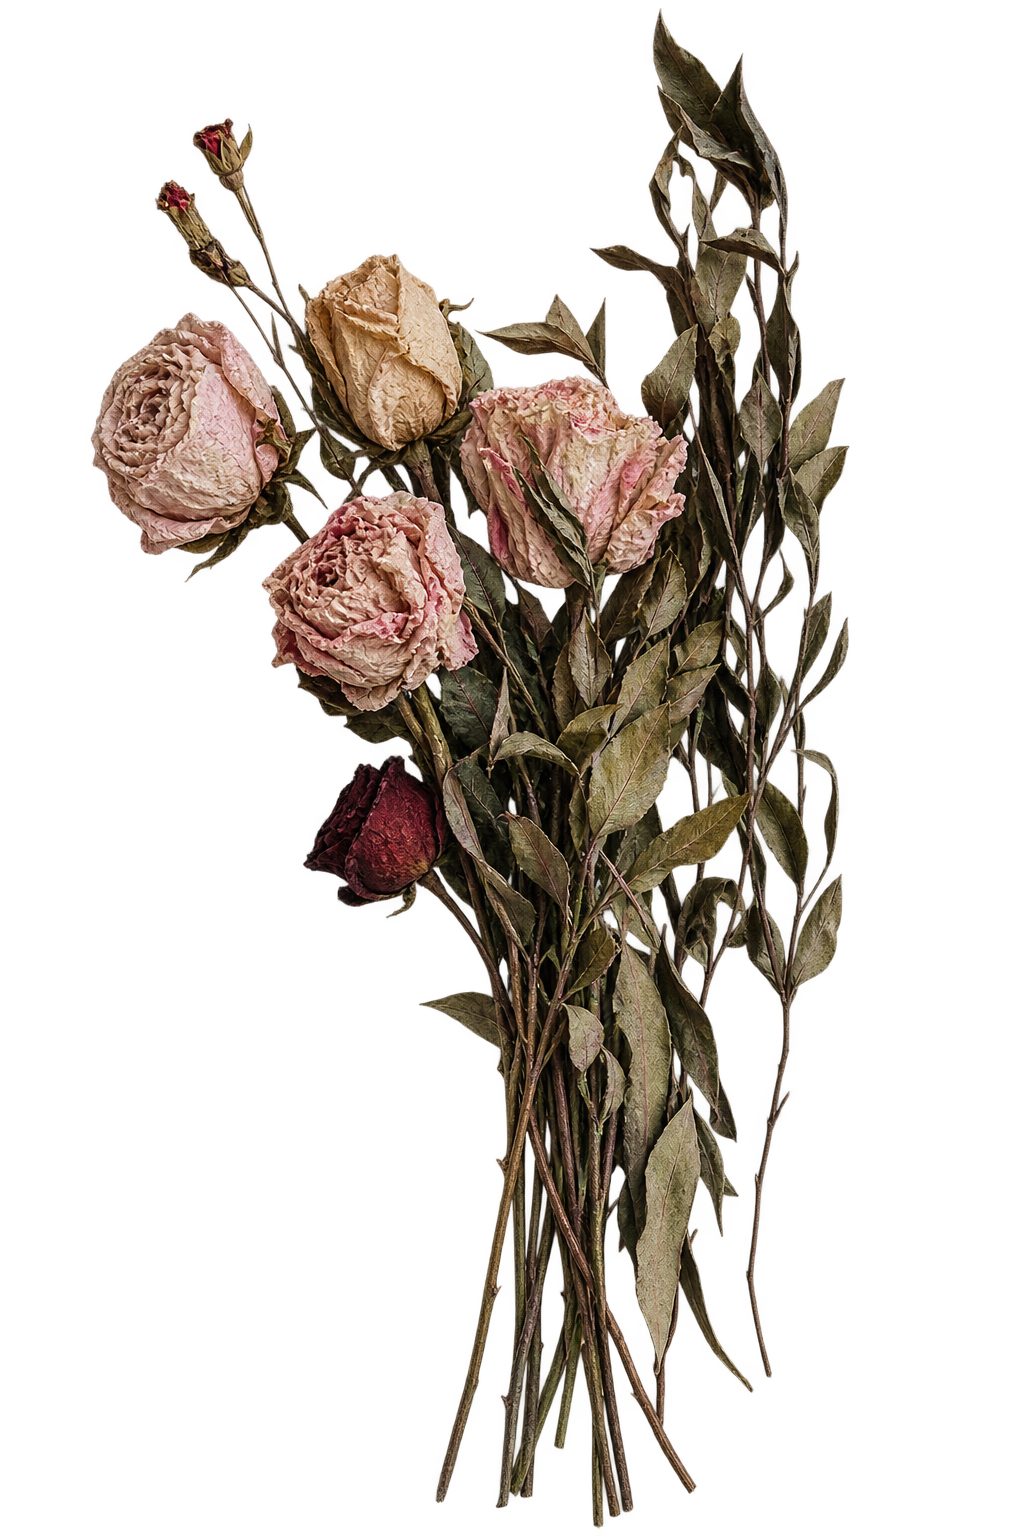
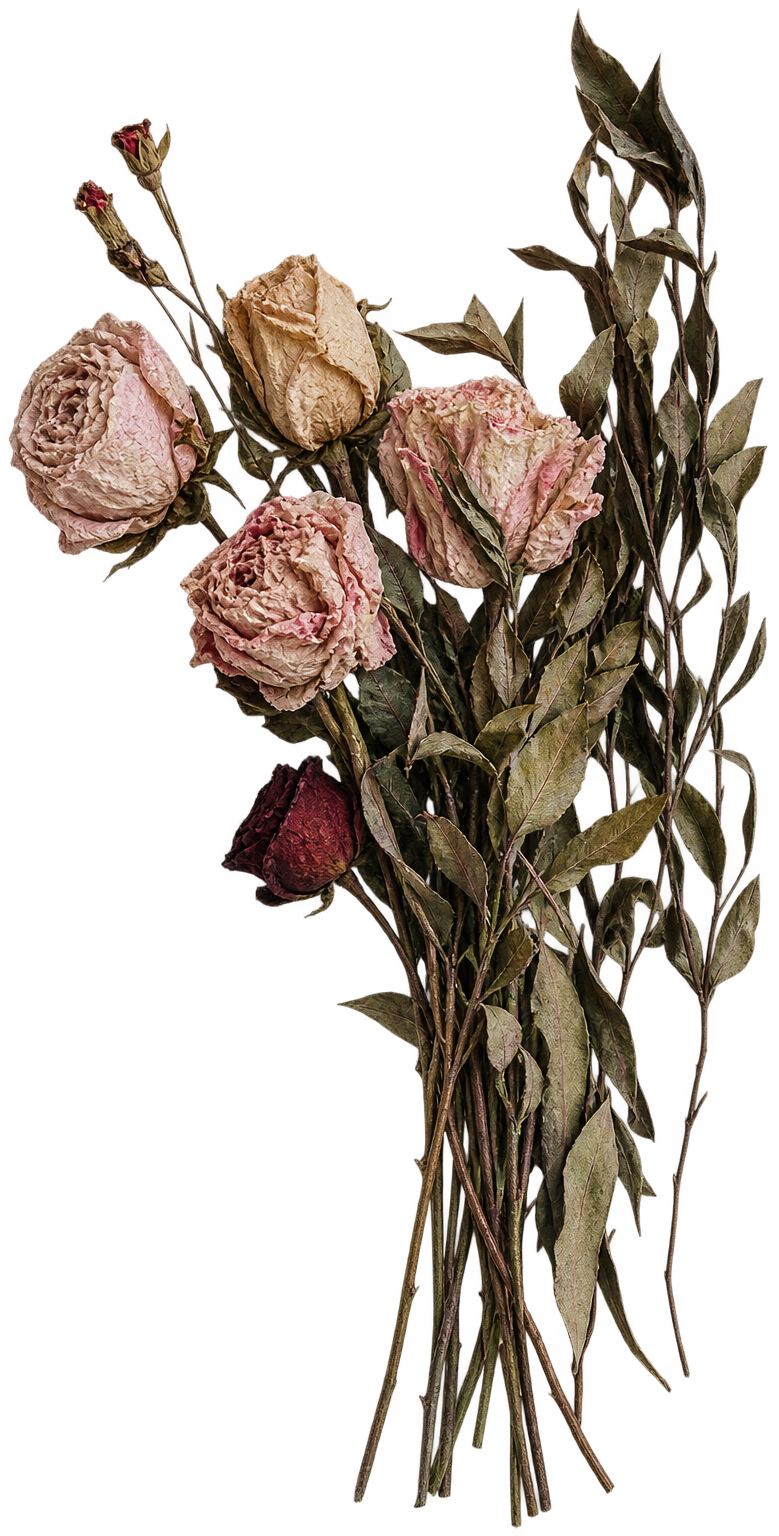
style: adjust scent cursor density and spread range

diff --git a/src/components/ScentCursor.tsx b/src/components/ScentCursor.tsx
@@ -74,8 +74,8 @@ const ScentCursor: React.FC = () => {
 
       for (let i = 0; i < burstCount; i++) {
         const angle = Math.random() * Math.PI * 2;
-        const speed = Math.random() * 1.8 + 0.4; // 부드러운 팽창 속도
-        const size = Math.random() * 25 + 15; // 크기 2~3배로 확장 (15px ~ 40px)
+        const speed = Math.random() * 2.8 + 0.6; // 더 넓게 퍼지는 팽창 속도
+        const size = Math.random() * 35 + 25; // 크기 증가 (25px ~ 60px)
         const lifeDuration = Math.random() * 0.8 + 1.2; // 더 길게 유지 (1.2s ~ 2.0s)
 
         particlesRef.current.push({
@@ -89,7 +89,7 @@ const ScentCursor: React.FC = () => {
           rotation: Math.random() * Math.PI * 2,
           rotationSpeed: (Math.random() - 0.5) * 0.03, // 서서히 회전
           color: COLORS[Math.floor(Math.random() * COLORS.length)],
-          alpha: Math.random() * 0.12 + 0.06, // 미스트의 부드러움을 위해 저투명도 적용
+          alpha: Math.random() * 0.15 + 0.08, // 20~30% 더 진하게
           life: 1.0,
           decay: 1 / (60 * lifeDuration)
         });
@@ -145,25 +145,25 @@ const ScentCursor: React.FC = () => {
         const spawnCount = isHovered ? 4 : 2; 
         
         for (let i = 0; i < spawnCount; i++) {
-          // 마우스 주변에 자연스럽게 퍼지는 오프셋 설정
-          const offsetX = (Math.random() - 0.5) * 15;
-          const offsetY = (Math.random() - 0.5) * 15;
-          const size = Math.random() * 30 + 15; // 크기 2~3배로 확장 (15px ~ 45px)
+          // 마우스 주변에 더 넓게 퍼지는 오프셋 설정 (1.5~2배 공간 확장)
+          const offsetX = (Math.random() - 0.5) * 35;
+          const offsetY = (Math.random() - 0.5) * 35;
+          const size = Math.random() * 40 + 25; // 크기 확장 (25px ~ 65px)
           const lifeDuration = Math.random() * 1.0 + 1.5; // 더 천천히 사라지도록 수명 증가 (1.5s ~ 2.5s)
 
           particlesRef.current.push({
             x: mouse.x + offsetX,
             y: mouse.y + offsetY,
-            // 흩날림 물리: 마우스 방향에 살짝 퍼지는 속도 부여
-            vx: (Math.random() - 0.5) * 0.4,
-            vy: (Math.random() - 0.5) * 0.4 - 0.15, // 미세한 공기 상승 부력
+            // 흩날림 물리: 마우스 방향에 더 넓게 퍼지는 속도 부여
+            vx: (Math.random() - 0.5) * 0.7,
+            vy: (Math.random() - 0.5) * 0.7 - 0.15, // 미세한 공기 상승 부력
             size,
             radiusX: size,
             radiusY: size * (0.6 + Math.random() * 0.4), // 미세한 타원형 비틀기
             rotation: Math.random() * Math.PI * 2,
             rotationSpeed: (Math.random() - 0.5) * 0.02, // 서서히 회전하는 값
             color: COLORS[Math.floor(Math.random() * COLORS.length)],
-            alpha: Math.random() * 0.08 + 0.04, // 4% ~ 12%의 매우 희미하고 투명한 입자
+            alpha: Math.random() * 0.10 + 0.05, // 20~30% 더 진하게 (5% ~ 15% 투명도)
             life: 1.0,
             decay: 1 / (60 * lifeDuration)
           });
@@ -183,8 +183,8 @@ const ScentCursor: React.FC = () => {
 
         // 미세하게 유영하는(Wobble) 움직임 추가
         p.rotation += p.rotationSpeed;
-        p.vx += Math.sin(p.life * 8 + p.rotation) * 0.03;
-        p.vy += Math.cos(p.life * 8 + p.rotation) * 0.03;
+        p.vx += Math.sin(p.life * 8 + p.rotation) * 0.05;
+        p.vy += Math.cos(p.life * 8 + p.rotation) * 0.05;
 
         p.x += p.vx;
         p.y += p.vy;
